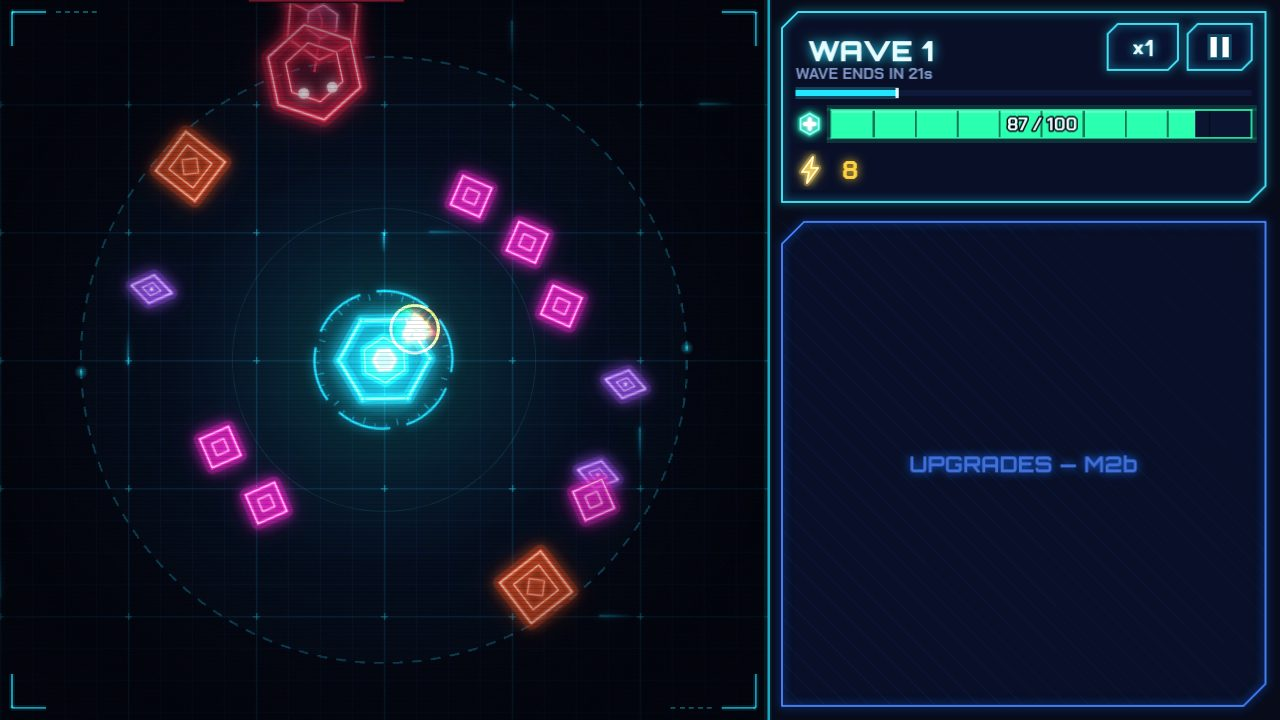
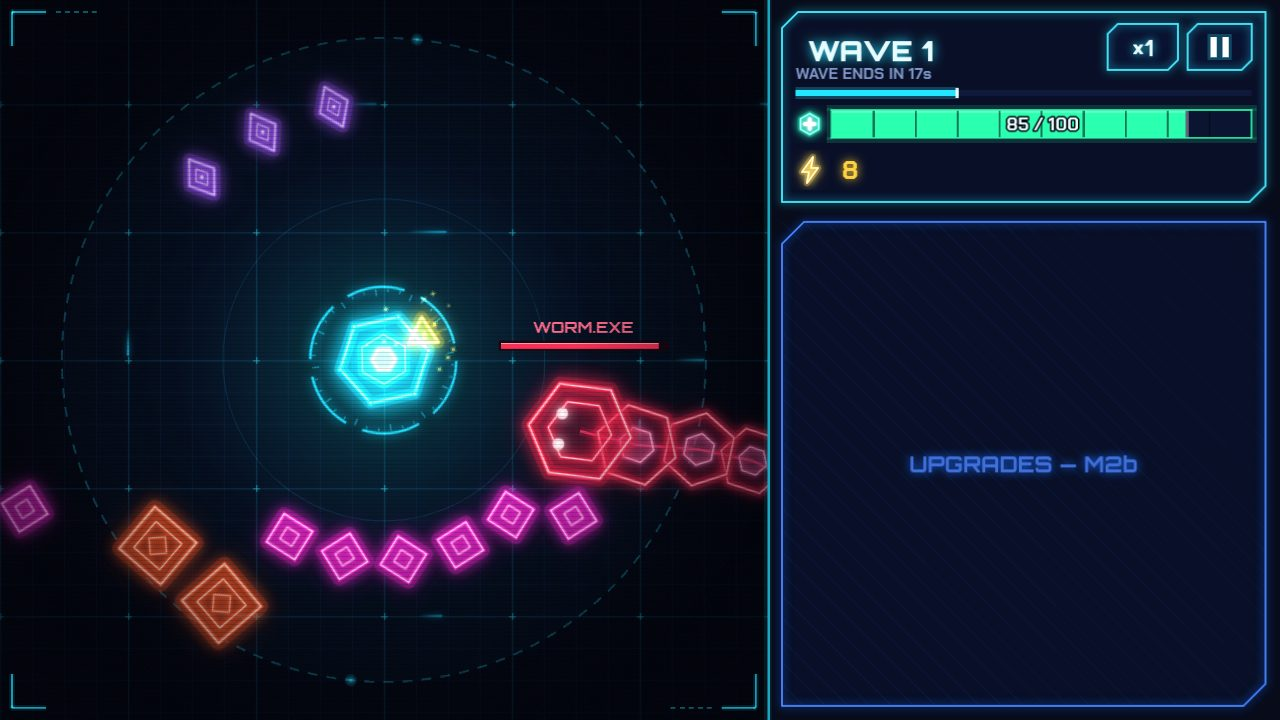
Spawn ring past the long edge, min-text smoke check, readable worm, action screenshots
Claude-Session: https://claude.ai/code/session_01BZKsxQEywShKS3YYg1GcQ4

diff --git a/src/render/WorldView.ts b/src/render/WorldView.ts
@@ -128,7 +128,7 @@ export class WorldView {
     this.spine = scene.add.graphics().setDepth(DEPTH.boss - 0.5).setBlendMode(Phaser.BlendModes.ADD);
     this.drawBrackets(scene);
     this.bossLabel = scene.add
-      .text(0, 0, 'WORM.EXE', { fontFamily: '"Orbitron", monospace', fontSize: `${Math.max(L.minFont - 8, 14)}px`, fontStyle: '700', color: '#ff6b8b', resolution: RS })
+      .text(0, 0, 'WORM.EXE', { fontFamily: '"Orbitron", monospace', fontSize: `${L.minFont}px`, fontStyle: '700', color: '#ff6b8b', resolution: RS })
       .setOrigin(0.5, 1)
       .setDepth(DEPTH.bars)
       .setVisible(false);
@@ -258,7 +258,9 @@ export class WorldView {
         bars.fillStyle(0x1a0610, 0.9).fillRect(sx - bw / 2 - 2, by - 2, bw + 4, 10);
         bars.fillStyle(CRIMSON, 1).fillRect(sx - bw / 2, by, bw * Math.max(0, e.hp / e.maxHp), 6);
         bars.fillStyle(0xffffff, 0.5).fillRect(sx - bw / 2, by, bw * Math.max(0, e.hp / e.maxHp), 1.5);
-        this.bossLabel.setPosition(sx, by - 6).setVisible(true).setAlpha(fade);
+        const half = this.bossLabel.width / 2 + 8;
+        const lx = Math.max(L.arena.x + half, Math.min(L.arena.x + L.arena.w - half, sx));
+        this.bossLabel.setPosition(lx, by - 6).setVisible(true).setAlpha(fade);
       } else if (e.hp < e.maxHp) {
         const bw = r * 2 + 4;
         const by = sy - r - 9;
@@ -337,7 +339,7 @@ export class WorldView {
   }
 
   private segSpacing(e: Enemy): number {
-    return e.radius * 1.45;
+    return e.radius * 1.75;
   }
 
   private pushTrail(b: BossBody, x: number, y: number): void {

diff --git a/src/ui/layout.ts b/src/ui/layout.ts
@@ -33,7 +33,8 @@ export interface Layout {
   minFont: number;
 }
 
-/** The spawn ring sits this many screen px beyond the arena's nearest (short-axis) edge. */
+/** The spawn ring sits this many screen px beyond the arena's far (long-axis) edge, so axis-aligned
+ *  spawns start off-screen on every side; only the corners can show a fresh spawn (it fades in). */
 export const SPAWN_MARGIN = 24;
 
 const PORTRAIT_HUD_H = 136;
@@ -63,8 +64,8 @@ export function makeLayout(o: Orientation, data: GameData): Layout {
     hud = { x: LANDSCAPE_ARENA_W, y: 0, w: w - LANDSCAPE_ARENA_W, h: LANDSCAPE_HUD_H };
     panel = { x: LANDSCAPE_ARENA_W, y: LANDSCAPE_HUD_H, w: w - LANDSCAPE_ARENA_W, h: h - LANDSCAPE_HUD_H };
   }
-  const halfShort = Math.min(arena.w, arena.h) / 2;
-  const scale = (halfShort + SPAWN_MARGIN) / data.config.spawnRadius;
+  const halfLong = Math.max(arena.w, arena.h) / 2;
+  const scale = (halfLong + SPAWN_MARGIN) / data.config.spawnRadius;
   return { o, w, h, hud, arena, panel, cx: arena.x + arena.w / 2, cy: arena.y + arena.h / 2, scale, minFont };
 }
 

diff --git a/src/render/RunSession.ts b/src/render/RunSession.ts
@@ -52,12 +52,14 @@ export class RunSession {
     return this.before.get(id) ?? this.world.enemies.find((e) => e.id === id);
   }
 
-  /** Dev/stress: spawns `n` enemies on the spawn ring, spread over the direction table. */
-  spawn(kind: EnemyKind, n: number, onEvent: EventSink): void {
+  /** Dev/stress: spawns `n` enemies on the spawn ring, spread over the direction table
+   *  (or starting at direction index `dir`, 0 = +x, 16 = +y). */
+  spawn(kind: EnemyKind, n: number, onEvent: EventSink, dir?: number): void {
     const dirs = this.data.directions;
     const r = this.data.config.spawnRadius;
     for (let i = 0; i < n; i++) {
-      const [dx, dy] = dirs[(this.world.nextId * 23 + i * 7) % dirs.length]!;
+      const at = dir === undefined ? this.world.nextId * 23 + i * 7 : dir + i * 3;
+      const [dx, dy] = dirs[((at % dirs.length) + dirs.length) % dirs.length]!;
       spawnEnemy(this.world, this.data, kind, dx * r, dy * r, this.events);
     }
     this.flush(onEvent);

diff --git a/src/ui/DeathOverlay.ts b/src/ui/DeathOverlay.ts
@@ -71,7 +71,7 @@ export class DeathOverlay {
       const line = scene.add.graphics().setDepth(D + 0.2);
       line.fillStyle(0x22e5ff, 0.07).fillRect(lx - 12, y - rowH / 2 + 4, rx - lx + 24, rowH - 8);
       const ic = scene.add.image(lx + 14, y, icon).setScale(ps(portrait ? 1.1 : 0.85)).setDepth(D + 0.3).setBlendMode(Phaser.BlendModes.ADD);
-      const lt = text(scene, lx + 44, y, label, fs * 0.85, { color: TEXT_DIM }).setOrigin(0, 0.5).setDepth(D + 0.3);
+      const lt = text(scene, lx + 44, y, label, Math.max(L.minFont, fs * 0.85), { color: TEXT_DIM }).setOrigin(0, 0.5).setDepth(D + 0.3);
       const vt = text(scene, rx, y, '0', fs, { color, glow: color, blur: 8 }).setOrigin(1, 0.5).setDepth(D + 0.3);
       this.values.push(vt);
       this.objs.push(line, ic, lt, vt);

diff --git a/tests/spawnVisibility.test.ts b/tests/spawnVisibility.test.ts
@@ -42,6 +42,8 @@ describe('spawn ring vs visible arena', () => {
       const halfShort = Math.min(L.arena.w, L.arena.h) / 2;
       const halfLong = Math.max(L.arena.w, L.arena.h) / 2;
       expect(ringPx).toBeGreaterThan(halfShort + data.enemies.basic.radius * L.scale);
+      // Axis-aligned spawns start fully off-screen on the long axis too (only corners can show them).
+      expect(ringPx).toBeGreaterThan(halfLong + data.enemies.basic.radius * L.scale);
       // "Just beyond": no more than ~1 s of walking past the long edge either.
       expect(ringPx - halfLong).toBeLessThan(data.enemies.basic.speed * L.scale);
       expect(data.config.spawnRadius).toBeGreaterThan(data.core.range);

diff --git a/src/render/scenes/BattleScene.ts b/src/render/scenes/BattleScene.ts
@@ -105,8 +105,8 @@ export class BattleScene extends Phaser.Scene {
   }
 
   /** Dev: spawns `n` enemies of a kind on the spawn ring. */
-  spawn(kind: EnemyKind, n: number): void {
-    this.session.spawn(kind, n, this.onEvent);
+  spawn(kind: EnemyKind, n: number, dir?: number): void {
+    this.session.spawn(kind, n, this.onEvent, dir);
   }
 
   /** Enemies whose circle touches the visible arena this frame (used by the UI smoke). */

diff --git a/src/render/devHooks.ts b/src/render/devHooks.ts
@@ -40,7 +40,7 @@ export function installDevHooks(game: Phaser.Game): void {
     },
     setSpeed: (n: number) => battle()?.setSpeed(n),
     pause: (on = true) => battle()?.setPaused(on),
-    spawn: (kind: EnemyKind, n = 1) => battle()?.spawn(kind, n),
+    spawn: (kind: EnemyKind, n = 1, dir?: number) => battle()?.spawn(kind, n, dir),
     restart: () => battle()?.restart(),
   };
 }
